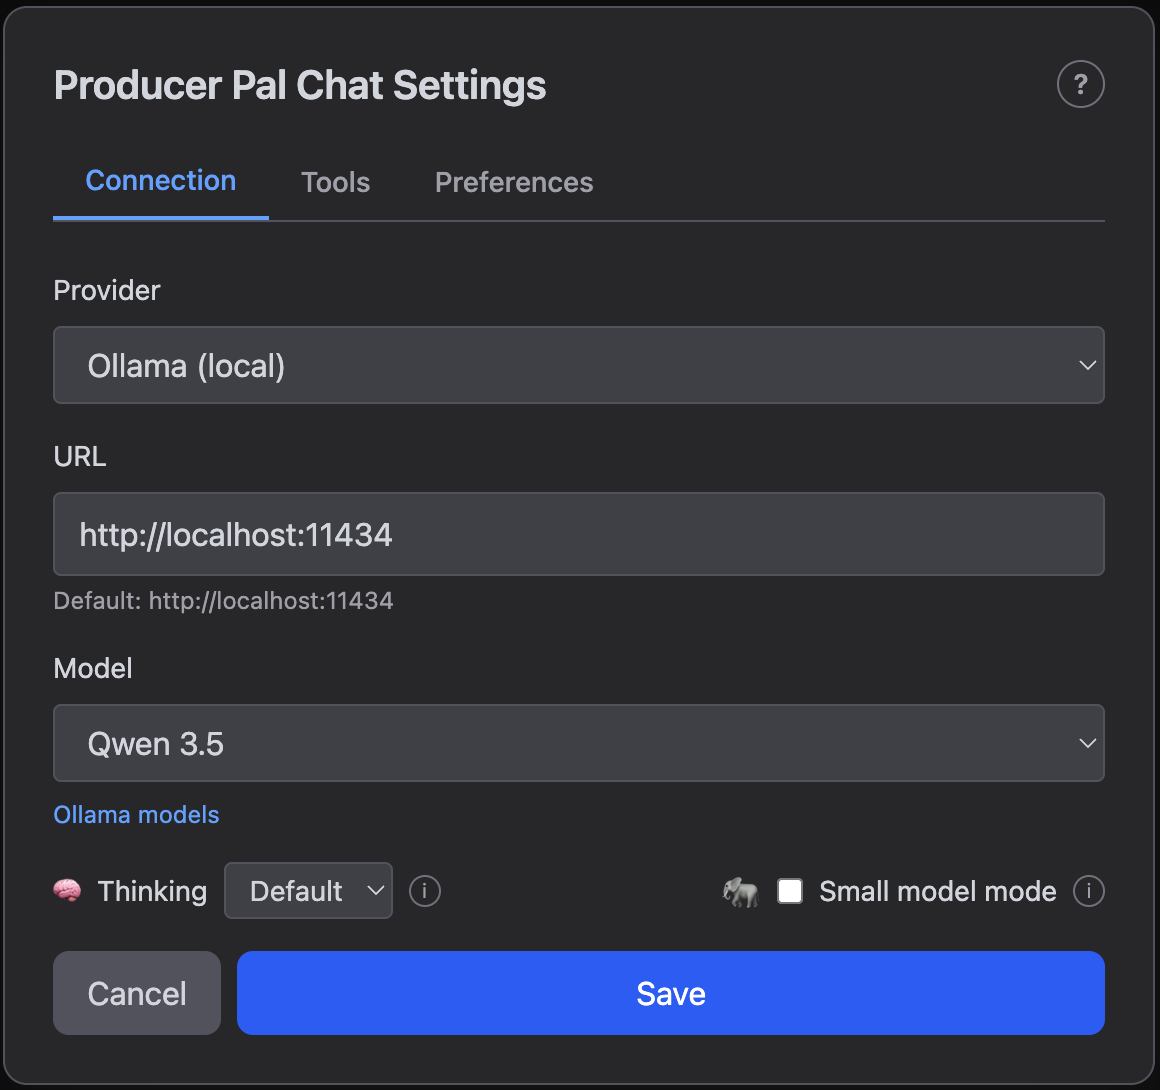
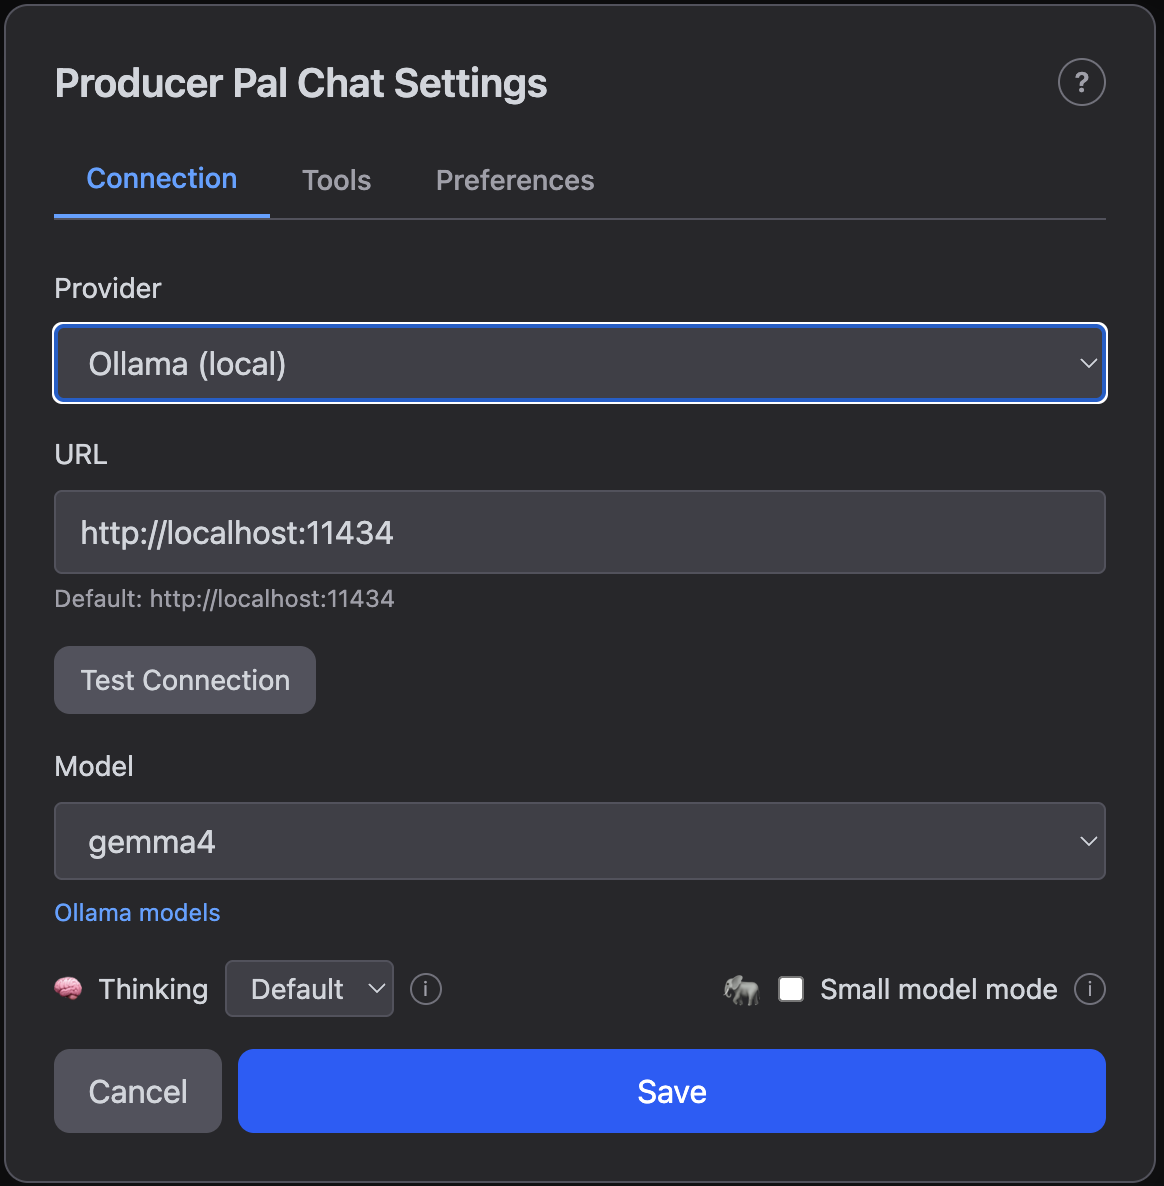
docs: document Test Connection button and refresh connection screenshots
Add a Test Connection entry to the Connection settings list and a short
tip under the local-AI section encouraging its use to confirm an Ollama or
LM Studio server is running. Refresh the cloud and Ollama connection
screenshots to show the button.

diff --git a/docs/guide/chat-ui.md b/docs/guide/chat-ui.md
@@ -149,6 +149,7 @@ The Connection tab is where you choose and configure your AI provider and model:
 - **Provider** - Choose from Google, Mistral, OpenAI, Anthropic, Ollama (local),
   LM Studio (local), OpenRouter, or Custom
 - **API Key** - Your API key (for cloud providers)
+- **Test Connection** - Verify your provider settings work before saving
 - **Model** - Select a model or enter a custom model name
 - **Thinking** - Default thinking level for new conversations (Off, Default, or
   Max). Can also be overridden per-message using the thinking toggle in the
@@ -159,6 +160,9 @@ The Connection tab is where you choose and configure your AI provider and model:
 #### Local AI settings (Ollama, LM Studio)
 
 <img src="/img/producer-pal-chat-settings-connection-ollama.png" alt="Ollama settings" width="500"/>
+
+Use **Test Connection** to confirm your local model server is running and
+reachable at the configured URL.
 
 Local models, such as those you can run with Ollama, do not require any API
 keys. Instead, they have a configurable URL.
